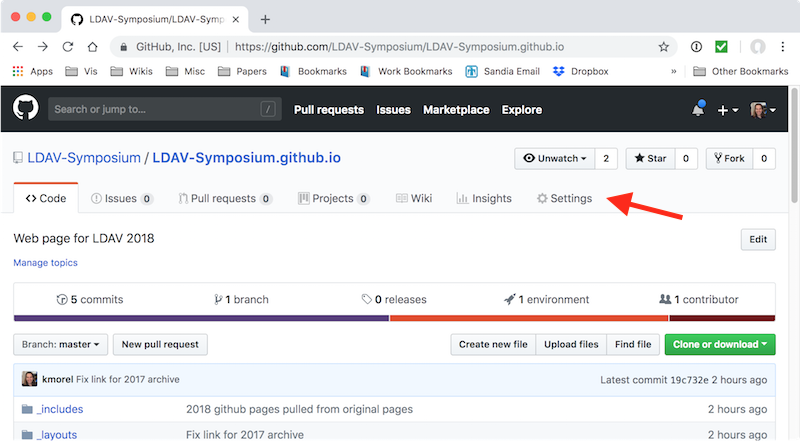
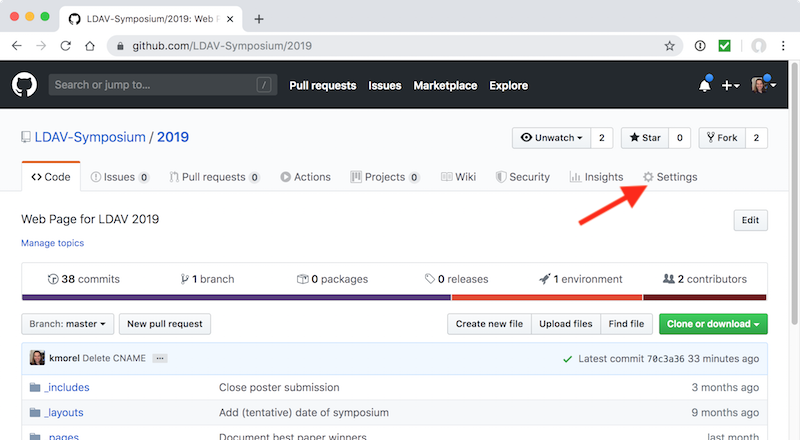
Update README for redirection instead of moving pages around

diff --git a/README.md b/README.md
@@ -9,8 +9,9 @@ Starting with the initial preparations for LDAV, beginning soon after the
 previous year's symposium, the general procedure is as follows.
 
   1. [Create a new web page](#create-a-new-web-page)
-  2. [Rotate in new page](#rotate-in-new-page)
-  3. [Update page](#update-page)
+  2. [Make new page live](#make-new-page-live)
+  3. [Rotate in new page](#rotate-in-new-page)
+  4. [Update page](#update-page)
 
 
 ## Create a new web page
@@ -24,18 +25,10 @@ You are free to create the web page in whatever way you like, but using a
 previous year's web page is probably the easiest way to start. Do not worry
 about preserving the git history of the previous year. In fact, it is
 better to start with a fresh git repository to save space. The git history
-of previous web pages will be saved [when we rotate out the old
-page](#rotate-in-new-page).
+of previous web pages are permanent links.
 
 Also, when creating a new web page, do not worry about including the web
-content from previous years. Again, this content will be archived [when we
-rotate in the new page](#rotate-in-new-page).
-
-### CNAME file
-
-When you create the pages, make sure you have a file named `CNAME` that has
-the contents of `ldav.org`. This will be important later to make sure that
-the ldav.org domain points to the page when we set that up later.
+content from previous years. Again, this content will is archived.
 
 ### A brief primer to Jekyll
 
@@ -84,70 +77,41 @@ directory and start a lightweight web service that you can connect to with
 your web browser.
 
 
-## Rotate in new page
+## Make new page live
 
-Once the new web page is complete, it is time to rotate in the new page by
-moving the existing page to an archive directory and replacing the main
-page.
+When the new page works, it can be posted to GitHub pages. To do this,
+first go to GitHub and create a new repository under the [LDAV-Symposium]
+organization. The repository should be named as the 4 digit year the pages
+are for. Push the local repository to GitHub.
 
-### Move existing front page to archive
-
-The first step is to move the existing page to an archive page. To do this,
-go to the [LDAV web GitHub
-page](https://github.com/LDAV-Symposium/LDAV-Symposium.github.io) and click
-on the `Settings` tab.
+Once the files are pushed to GitHub, the GitHub pages should be enabled. Go
+to the GitLab repo and click on the `Settings` tab.
 
 ![GitHub Settings tab](images/main-page-settings-tab.png)
 
-In the settings, change the `Repository name` to the year the repository
-represents. For example, if the current LDAV page documents the symposium
-for the year 2019, then change the repository name to `2019`.
-
-![Change repository name](images/main-page-change-name.png)
-
-Once the page is renamed, go back to the `Settings` tab. Scroll down to the
-section labeled `GitHub Pages`. The first option for the GitHub pages is
-the `Source`. The `Source` is probably set to `None`. Change it to `Master
-Branch`.
+Scroll down to the section labeled `GitHub Pages`. The first option for the
+GitHub pages is the `Source`. The `Source` is probably set to `None`.
+Change it to `Master Branch`.
 
 ![Enable GitHub pages](images/enable-github-pages.png)
 
-Althought the repository is moved, it is still grabbing the custom web
-domain. That needs to be removed so this page can be a subpage of the new
-web page to be installed. To do that scroll down on the `Settings` page
-back to the `GitHub Pages` section. Lower in that section there is a
-`Custom domain` field that is currently set to `ldav.org`. Change that to
-be blank and hit the `Save` button.
+Once the settings page reloads, it should let you know that the web pages
+are posted at a site with a name like `https://ldav.org/20XX`, which is
+where the new pages will be available under the `ldav.org` domain.
 
-![Remove custom domain](images/remove-custom-domain.png)
+![GitHub pages link](images/github-pages-link.png)
 
-### Create new front page
 
-Once the last front page has been moved out of the way, a new front page
-can be installed. To do this, first create a new repository named
-`LDAV-Symposium.github.io` in the LDAV-Symposium GitHub organization. Note
-that the name of the repository is very important. The web page will not
-work if it is not named exactly `LDAV-Symposium.github.io`.
+## Rotate in new page
 
-Once the repository is created, push this year's web page to that
-repository. GitHub provides instructions on how to do this.
+Once the new web page is complete, it is time to rotate in the new page by
+changing the redirect to the new page. The redirection is done by the
+`index.html` file in the [LDAV-Symposium.github.io] repository. Simply
+change the 2 URL references (one in a `meta` tag and one in a `link` tag)
+to the new repository.
 
-With the new web pages installed in the `LDAV-Symposium.github.io`
-repository, you need to set the custom domain to be `ldav.org`. For this to
-work, you need both a `CNAME` file and the custom domain set up.
-
-First, double check that you have a file in your repository named `CNAME`.
-This file should contain the string `ldav.org` (and nothing else). The page
-will not show up properly if you do not have it.
-
-Second, go to the GitHub repository and once again click on the `Settings`
-tab. Scroll down again to the section labeled `GitHub Pages` and change the
-`Custom domain` field to `ldav.org`.
-
-![Set custom domain](images/set-custom-domain.png)
-
-At this point, your new web page should be accessible from
-[http://ldav.org].
+Once the changes are pushed to GitHub (and GitHub has some time to
+rebuild), [https://ldav.org] should be redirected to the new pages.
 
 ### Check links
 
@@ -198,3 +162,4 @@ ldav.org to where the pages are hosted.
 [Jekyll]: https://jekyllrb.com/
 [ldav.org]: http://ldav.org/
 [LDAV-Symposium]: https://github.com/LDAV-Symposium
+[LDAV-Symposium.github.io]: https://github.com/LDAV-Symposium/LDAV-Symposium.github.io
